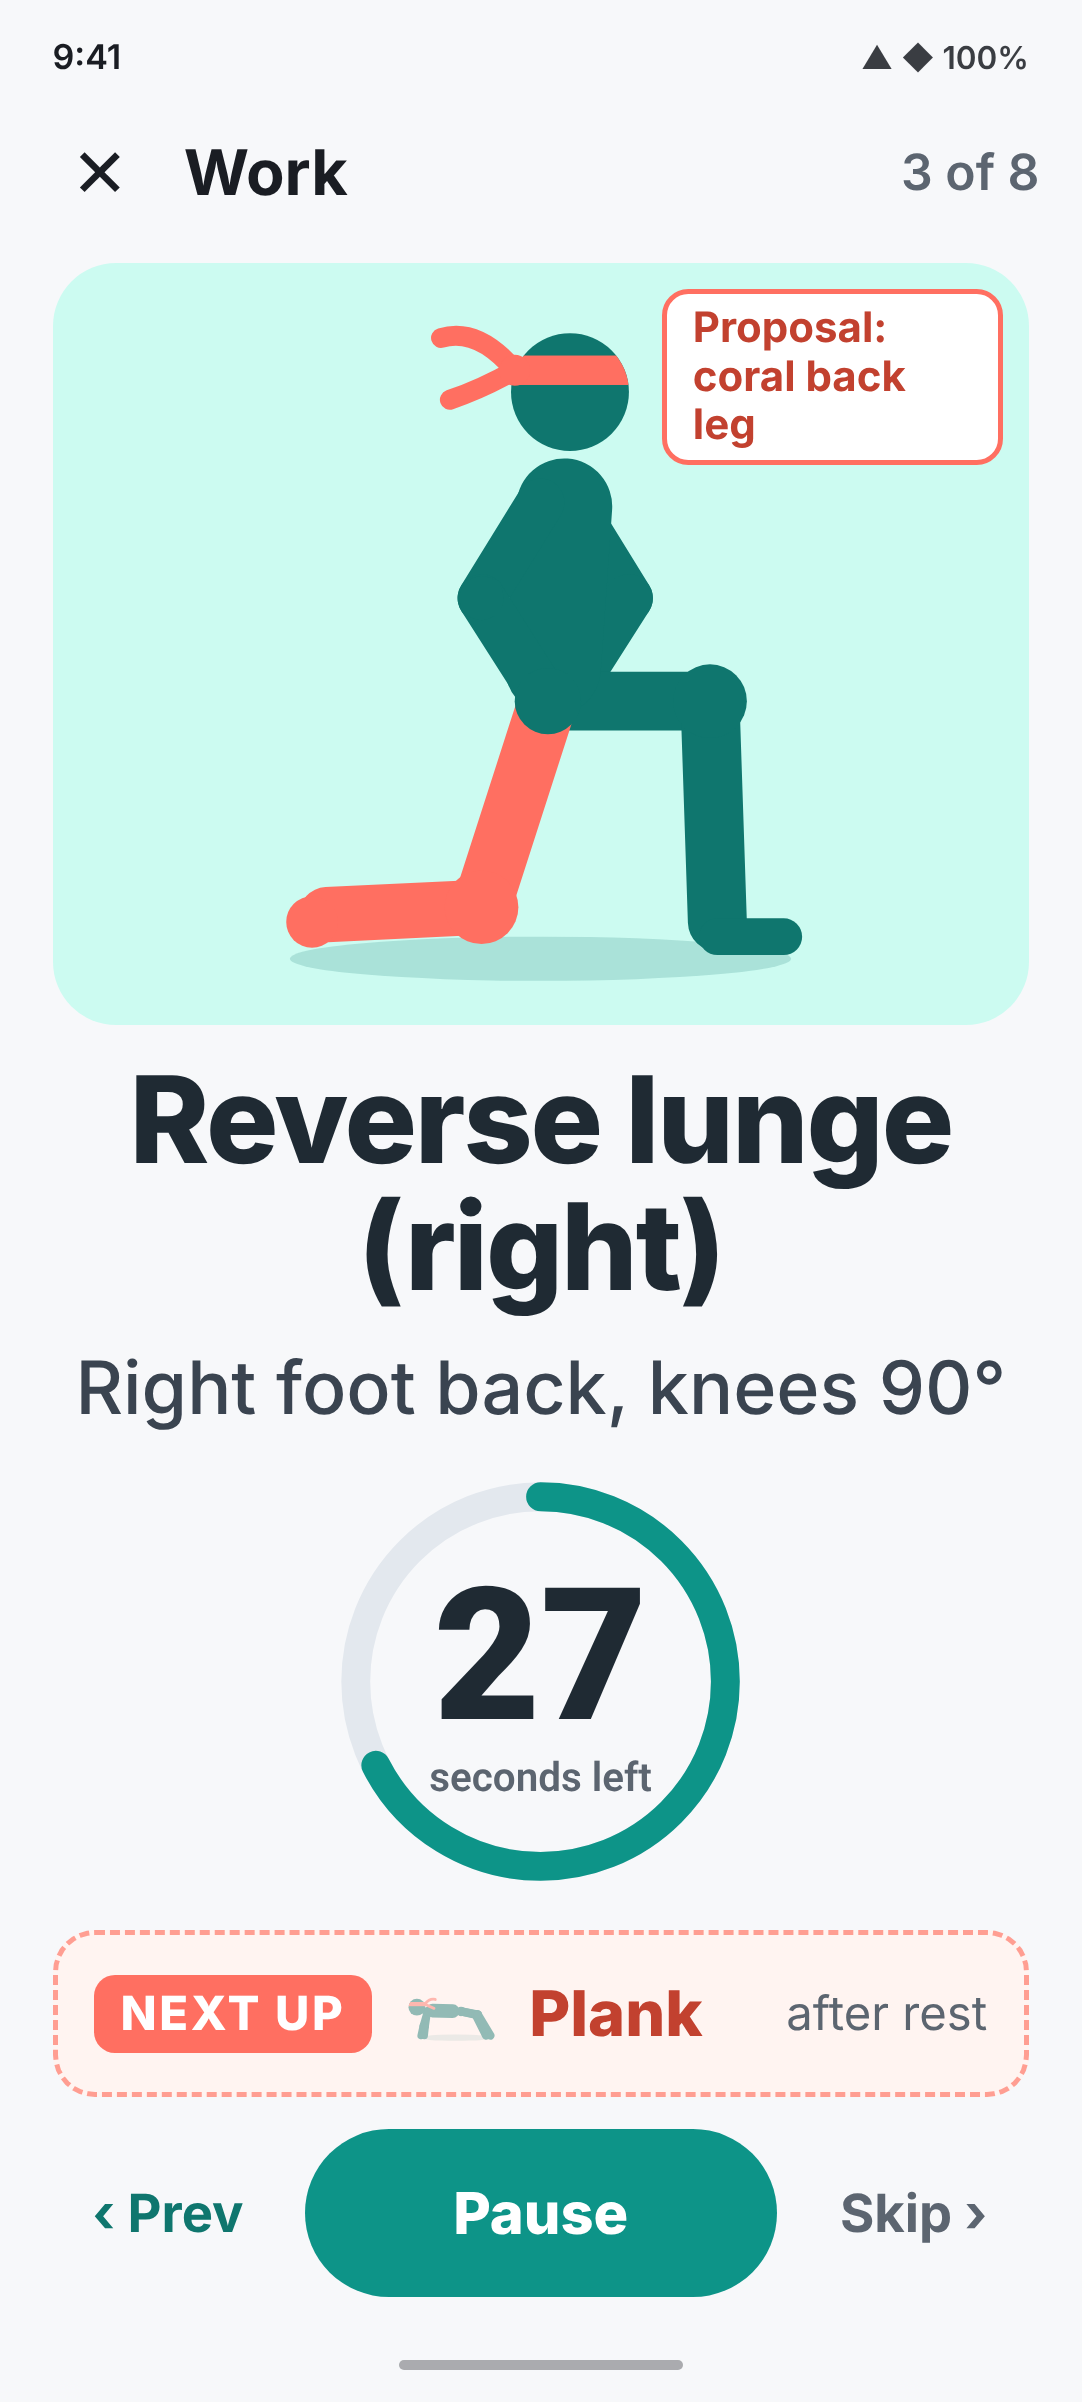
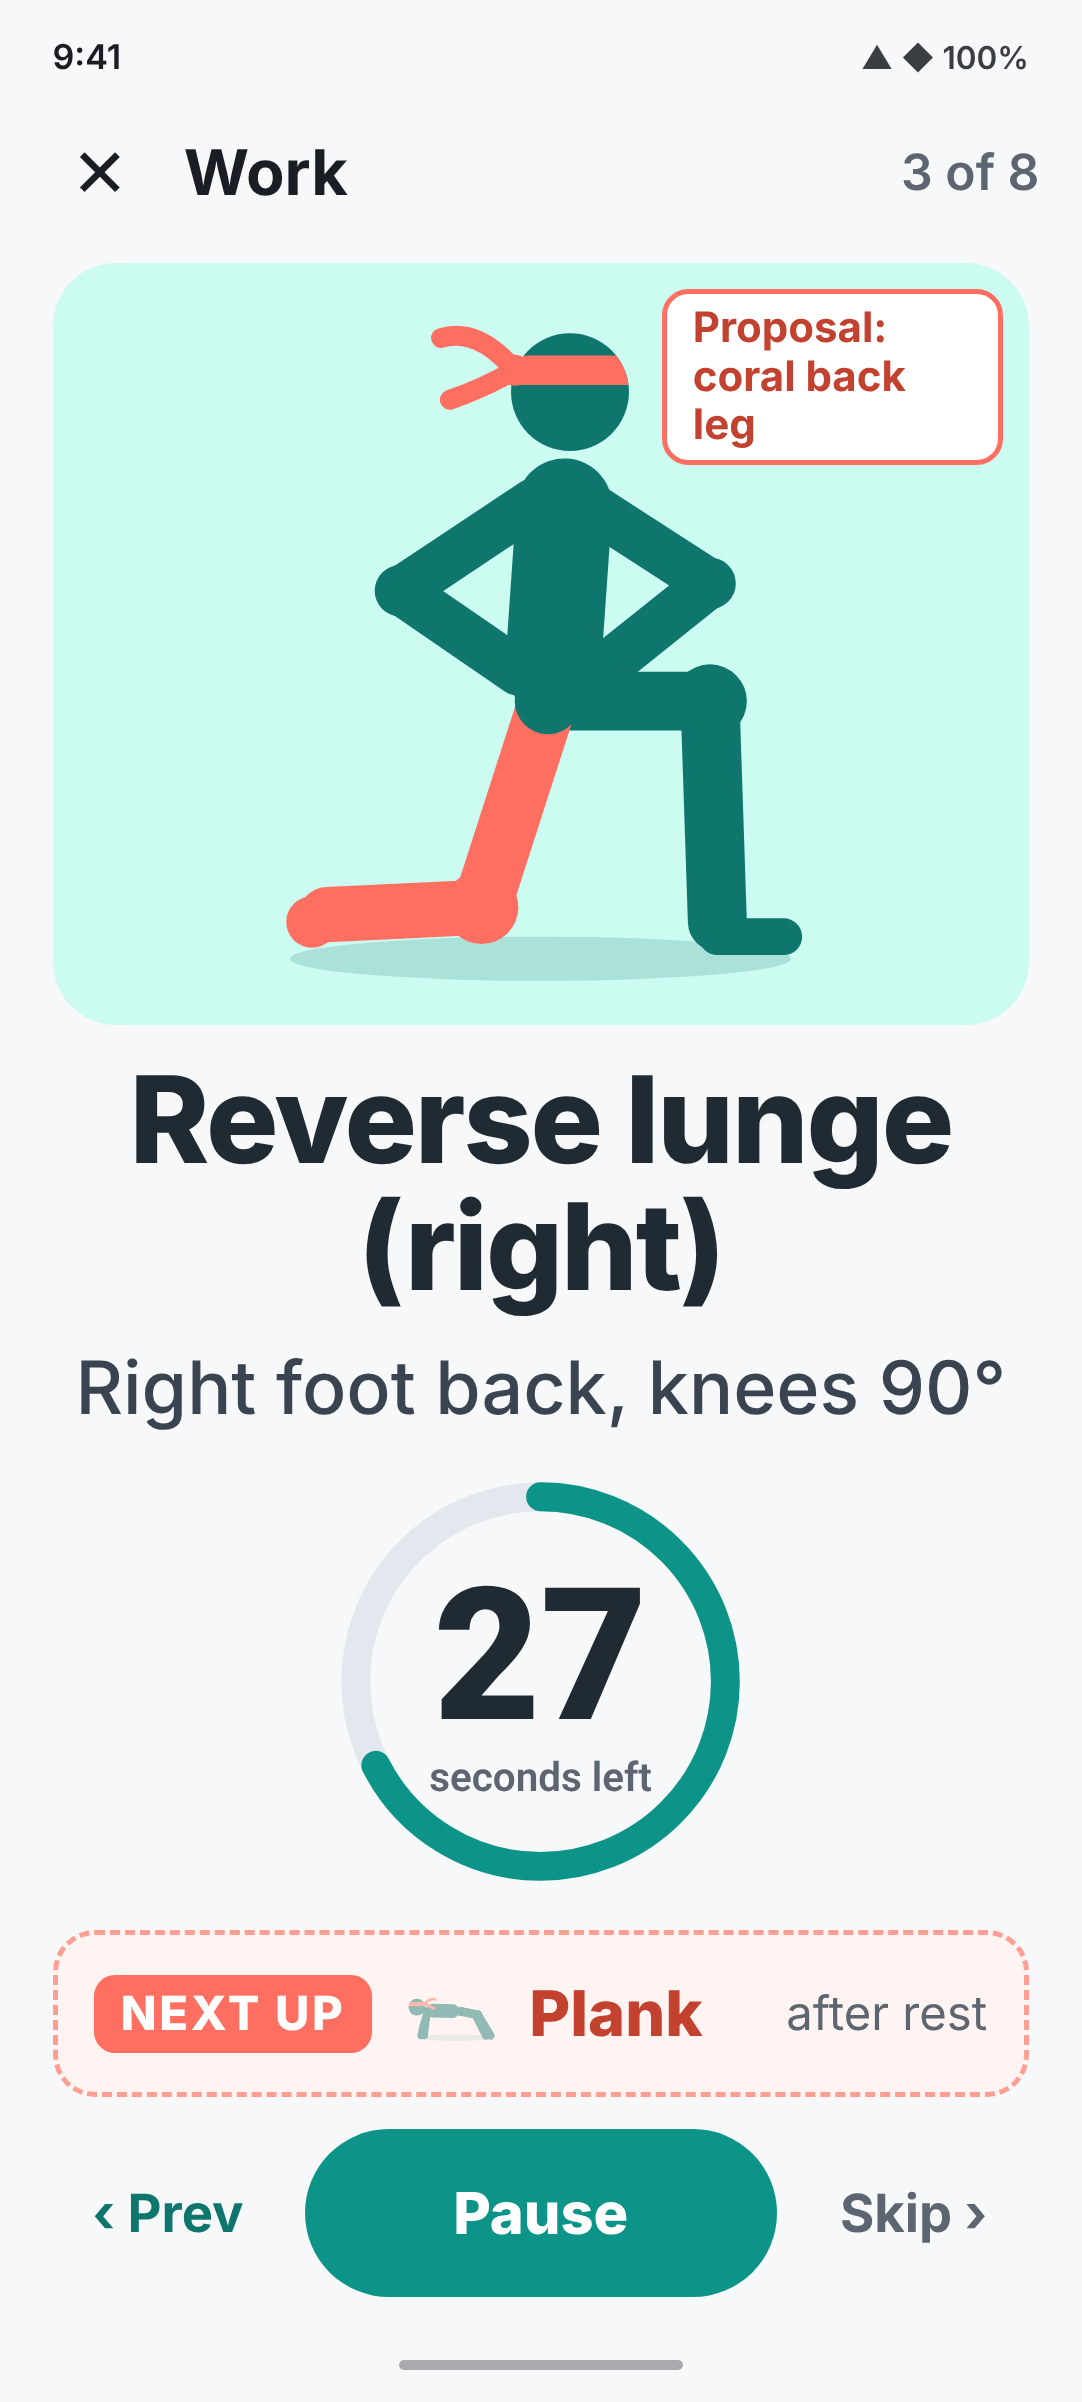
Day A mockups round 5: lunge arms, done screen, home picker
Lunge figure now has hands on hips with the elbows out. Adds a finished
screen that suggests the other quiet morning routine, and a home picker
with six routines grouped by time of day. Draft move lists for the
Lunch and After work routines are in the README.

Changed region(s): [[0.549, 0.1873, 0.7015, 0.281], [0.3355, 0.1873, 0.488, 0.281]]

diff --git a/docs/mockups/dayA-feedback/src/r3.css b/docs/mockups/dayA-feedback/src/r3.css
@@ -68,3 +68,28 @@
 .fig img{height:100%;max-height:100%;width:auto;object-fit:contain}
 .prop{line-height:1.15;max-width:130px}
 .prop{left:auto;right:10px}
+/* round 5: done + home */
+.done-hero{display:flex;flex-direction:column;align-items:center;gap:6px;margin-top:6px}
+.done-hero .circ{width:150px;height:150px;border-radius:75px;background:var(--accent-soft);display:flex;align-items:center;justify-content:center}
+.done-hero .circ img{width:130px;height:130px}
+.done-big{font-size:44px;font-weight:900;color:var(--navy);letter-spacing:-.6px;text-align:center;line-height:1.05}
+.done-sub{font-size:22px;color:#3A4450;text-align:center;line-height:1.3}
+.stats{display:flex;justify-content:center;gap:8px;flex-wrap:wrap}
+.stat{background:#fff;border-radius:14px;padding:8px 14px;font-size:18px;font-weight:700;box-shadow:var(--shadow)}
+.sugg{background:#FFF4F1;border:2.5px solid #FF9E92;border-radius:24px;padding:18px 18px 16px;flex-shrink:0}
+.sugg .q{font-size:26px;font-weight:900;color:var(--coral-dk)}
+.sugg .t{font-size:22px;color:#3A4450;margin:4px 0 12px;line-height:1.3}
+.sugg .t b{color:var(--navy)}
+.btn2{display:flex;align-items:center;justify-content:center;height:62px;border-radius:31px;font-size:21px;font-weight:800;border:2.5px solid #C5CDD8;color:var(--navy);background:#fff;flex-shrink:0}
+.anno{font-size:16px;color:var(--text-2);text-align:center}
+.greet{font-size:32px;font-weight:900;color:var(--navy);letter-spacing:-.4px}
+.grp{display:flex;align-items:baseline;gap:8px;margin-top:4px}
+.grp h3{font-size:20px;font-weight:800;color:var(--navy)}
+.grp span{font-size:16px;color:var(--text-2)}
+.rt{display:flex;align-items:center;gap:12px;background:#fff;border-radius:16px;padding:8px 12px;box-shadow:var(--shadow)}
+.rt .th{width:52px;height:52px;border-radius:12px;background:var(--accent-soft);display:flex;align-items:center;justify-content:center;flex-shrink:0}
+.rt .th img{width:46px;height:46px}
+.rt .nm{font-size:21px;font-weight:800;color:var(--navy);line-height:1.15}
+.rt .tg{display:flex;gap:6px;margin-top:3px;flex-wrap:wrap}
+.rt .tg span{font-size:16px;font-weight:600;color:var(--accent-dark);background:var(--accent-soft);padding:1px 8px;border-radius:999px}
+.rt .chev{margin-left:auto;font-size:26px;color:var(--text-3)}

diff --git a/docs/mockups/dayA-feedback/src/g-home-picker.html b/docs/mockups/dayA-feedback/src/g-home-picker.html
@@ -1,0 +1,1 @@
+<!doctype html><html><head><meta charset="utf-8"><link rel="stylesheet" href="../../src/shared.css"><link rel="stylesheet" href="r3.css"></head><body><div class="phone"><div class="status-bar"><span>9:41</span><span class="status-icons">▲ ◆ 100%</span></div><div class="content" style="padding-top:14px"><div class="greet">G'day! Pick a workout</div><div class="grp"><h3>Morning</h3><span>quiet, no jumping</span></div><div class="rt"><div class="th"><img src="fig/squat.svg"></div><div><div class="nm">Quiet morning A</div><div class="tg"><span>~10 min</span><span>legs · push · core</span></div></div><span class="chev">›</span></div><div class="rt"><div class="th"><img src="fig/splitSquat.svg"></div><div><div class="nm">Quiet morning B</div><div class="tg"><span>~10 min</span><span>single-leg · back · core</span></div></div><span class="chev">›</span></div><div class="grp"><h3>Lunch</h3><span>standing only · low sweat</span></div><div class="rt"><div class="th"><img src="fig/inclinePushup.svg"></div><div><div class="nm">Lunch A</div><div class="tg"><span>~10 min</span><span>work clothes friendly</span></div></div><span class="chev">›</span></div><div class="rt"><div class="th"><img src="fig/wallSit.svg"></div><div><div class="nm">Lunch B</div><div class="tg"><span>~10 min</span><span>work clothes friendly</span></div></div><span class="chev">›</span></div><div class="grp"><h3>After work</h3><span>more energy</span></div><div class="rt"><div class="th"><img src="fig/pushup.svg"></div><div><div class="nm">After work A</div><div class="tg"><span>~15 min</span><span>proper sweat</span></div></div><span class="chev">›</span></div><div class="rt"><div class="th"><img src="fig/sidePlank.svg"></div><div><div class="nm">After work B</div><div class="tg"><span>~15 min</span><span>proper sweat</span></div></div><span class="chev">›</span></div></div><div class="nav-bar"><div class="nav-pill"></div></div></div></body></html>

diff --git a/docs/mockups/dayA-feedback/src/f-workout-done.html b/docs/mockups/dayA-feedback/src/f-workout-done.html
@@ -1,0 +1,1 @@
+<!doctype html><html><head><meta charset="utf-8"><link rel="stylesheet" href="../../src/shared.css"><link rel="stylesheet" href="r3.css"></head><body><div class="phone"><div class="status-bar"><span>9:41</span><span class="status-icons">▲ ◆ 100%</span></div><div class="topbar"><div class="icon-btn">✕</div><div class="spacer"></div></div><div class="content"><div class="done-hero"><div class="circ"><img src="fig/armCircles.svg"></div><div class="done-big">Nice one!</div><div class="done-sub">Quiet morning A done.<br>Great to see you moving.</div></div><div class="stats"><span class="stat">10 min</span><span class="stat">8 moves</span><span class="stat">4 warm-ups</span></div><div class="spacer"></div><div class="sugg"><div class="q">Got more time?</div><div class="t">Why not start <b>Quiet morning B</b>? About 10 more minutes.</div><div class="btn">Start Quiet morning B</div></div><div class="btn2">Done for today</div><div class="anno">Finishing B suggests A instead</div></div><div class="nav-bar"><div class="nav-pill"></div></div></div></body></html>

diff --git a/docs/mockups/dayA-feedback/src/build_figs.py b/docs/mockups/dayA-feedback/src/build_figs.py
@@ -1,0 +1,35 @@
+"""Mockup-only figure copies: coral headband with two tied tails at the back of the head.
+Reads the app's assets/figures (untouched) and writes fig/*.svg. Also draws the side-on reverse lunge."""
+import re
+T='#0F766E'; C='#FF6F61'
+def band(cx,cy,r,tail):   # tail: +1 tails trail right, -1 left, 0 = front-facing (peek left-down)
+    y=cy-r*0.37; h=r*0.5
+    s=(f'<clipPath id="hb"><circle cx="{cx}" cy="{cy}" r="{r}"/></clipPath>'
+       f'<rect x="{cx-r-1}" y="{y-h/2}" width="{2*r+2}" height="{h}" fill="{C}" clip-path="url(#hb)"/>')
+    d=tail if tail else -1; kx=cx+d*(r-1); w=r*0.34
+    ends=[(kx+d*r*1.25,y-r*0.55),(kx+d*r*1.1,y+r*0.5)] if tail else [(kx+d*r*0.85,y+r*0.75),(kx+d*r*0.45,y+r*1.0)]
+    for x2,y2 in ends:
+        s+=f'<path d="M{kx:.1f},{y:.1f} Q{(kx+x2)/2:.1f},{y2-(3 if tail else 0):.1f} {x2:.1f},{y2:.1f}" stroke="{C}" stroke-width="{w:.1f}" stroke-linecap="round" fill="none"/>'
+    return s+f'<circle cx="{kx:.1f}" cy="{y:.1f}" r="{r*0.26:.1f}" fill="{C}"/>'
+def headband_copy(n):
+    s=open(f'../../../../assets/figures/{n}.svg').read()
+    cs=[(float(m[2]),float(m[0]),float(m[1])) for m in re.findall(r'<circle cx="([\d.]+)" cy="([\d.]+)" r="([\d.]+)" fill="#',s)]
+    r,cx,cy=max(cs)   # head = largest filled circle
+    xs=[float(v) for v in re.findall(r' (?:x1|x2|cx)="([\d.]+)"',s)]; dx=sum(xs)/len(xs)-cx
+    tail=0 if abs(dx)<8 else (1 if dx>0 else -1)   # tails trail toward the body
+    open(f'fig/{n}.svg','w').write(s.replace('</svg>',band(cx,cy,r,tail)+'</svg>')); return n,tail
+for n in ['march','armCircles','squat','goodMorning','pushup','plank','gluteBridge','inclinePushup','wallSit','sidePlank','shoulderTap','splitSquat']:
+    print(*headband_copy(n))
+def L(x1,y1,x2,y2,c,w=16): return f'<line x1="{x1}" y1="{y1}" x2="{x2}" y2="{y2}" stroke="{c}" stroke-width="{w}" stroke-linecap="round"/>'
+def J(x,y,c,r=9): return f'<circle cx="{x}" cy="{y}" r="{r}" fill="{c}"/>'
+# Side-on reverse lunge facing right; near (right) leg is the back leg, coral (proposal). Hands on hips, elbows out.
+hip=(102,112); fk=(146,112); ff=(148,172); bk=(84,168); bf=(42,170)
+s='<svg viewBox="0 0 200 200" width="200" height="200" xmlns="http://www.w3.org/2000/svg">'
+s+=f'<ellipse cx="100" cy="182" rx="68" ry="6" fill="{T}" opacity="0.18"/>'
+s+=L(112,58,146,80,T,13)+L(146,80,116,104,T,13)+J(146,80,T,7)          # far arm: elbow forward
+s+=L(*hip,*fk,T)+L(*fk,*ff,T)+L(148,176,166,176,T,10)+J(*fk,T,10)       # front leg
+s+=f'<rect x="92" y="46" width="26" height="70" rx="13" fill="{T}" transform="rotate(4 105 80)"/>'+J(108,28,T,16)
+s+=L(*hip,*bk,C)+L(*bk,*bf,C,15)+J(*bk,C,10)+J(38,172,C,7)              # back leg (coral)
+s+=L(98,58,62,82,T,13)+L(62,82,94,104,T,13)+J(62,82,T,7)+J(94,104,T,6)  # near arm: elbow back, hand on hip
+s+=J(*hip,T,9)+band(108,28,16,-1)+'</svg>'
+open('fig/reverseLunge-coral-leg.svg','w').write(s)

diff --git a/docs/mockups/dayA-feedback/README.md b/docs/mockups/dayA-feedback/README.md
@@ -19,6 +19,69 @@ Naming: "Reverse lunge (right)" = right leg goes back. "Lunge (right)" (forward)
 
 `src/fig/` holds mockup-only copies of the figure SVGs with the headband added; the app's `assets/figures` are untouched.
 
+Round 5: the lunge figure has hands on hips with elbows clearly out (both sides). New screens:
+
+- `png/f-workout-done.png`: finished Quiet morning A, with a warm well-done message and a "Got more time? Why not start Quiet morning B?" card (Start B, or "Done for today"). Finishing B suggests A.
+- `png/g-home-picker.png`: home picker with 6 routines grouped by time of day (names, duration and tags only).
+
+`src/build_figs.py` regenerates the mockup figure copies in `src/fig/`.
+
+## Draft routines (not in the app yet)
+
+Built only from moves already in `assets/content.json`. Every routine uses the usual 2 min warm-up
+(March on the spot, Arm circles, Good morning, Slow squats; 30s each, no rests).
+One-sided moves are split right then left, with a different move in between.
+
+**Lunch A** (~10 min, standing only, low sweat, work clothes friendly). 40s work, 20s rest
+1. Squat
+2. Incline push-up (desk or bench)
+3. Reverse lunge (right)
+4. Wall sit
+5. Reverse lunge (left)
+6. Good morning
+7. Incline push-up
+8. Squat
+
+**Lunch B** (~10 min, standing only, low sweat, work clothes friendly). 40s work, 20s rest
+1. Split squat (right)
+2. Incline push-up
+3. Split squat (left)
+4. Wall sit
+5. Good morning
+6. Squat
+7. Incline push-up
+8. March on the spot (easy finish)
+
+**After work A** (~15 min, more energetic, proper sweat). 40s work, 20s rest
+1. Squat
+2. Push-up
+3. Reverse lunge (right)
+4. Shoulder tap
+5. Reverse lunge (left)
+6. Plank
+7. Split squat (right)
+8. Glute bridge
+9. Split squat (left)
+10. Push-up
+11. Dead bug
+12. Squat
+
+**After work B** (~15 min, more energetic, proper sweat). 40s work, 20s rest
+1. Squat
+2. Side plank (right)
+3. Push-up
+4. Side plank (left)
+5. Reverse lunge (right)
+6. Superman
+7. Reverse lunge (left)
+8. Shoulder tap
+9. Wall sit
+10. Bird dog
+11. Squat
+12. Plank
+
+Timing: Lunch is 2 min warm-up + 8 x 40s + 7 x 20s, about 10 min. After work is 2 min + 12 x 40s + 11 x 20s, about 14 min.
+
 ## GUIDE.md note (not changed yet)
 
 Card (d) is an exception to "Nothing on first install / first launch". It appears when the
